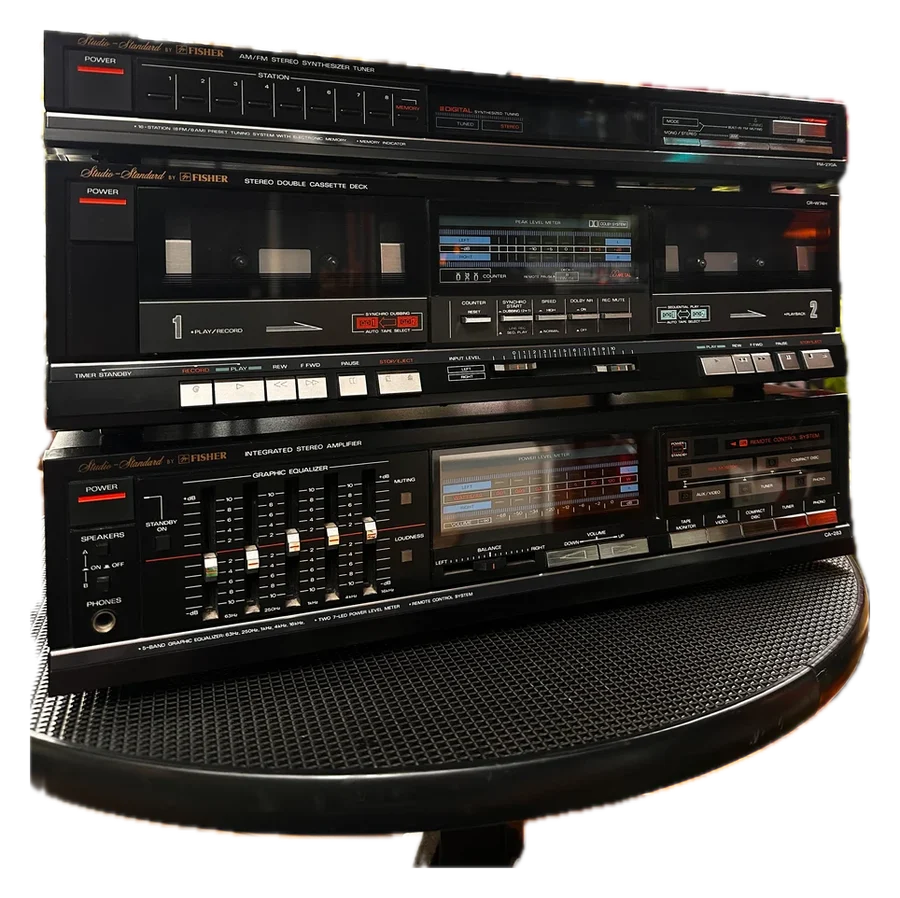
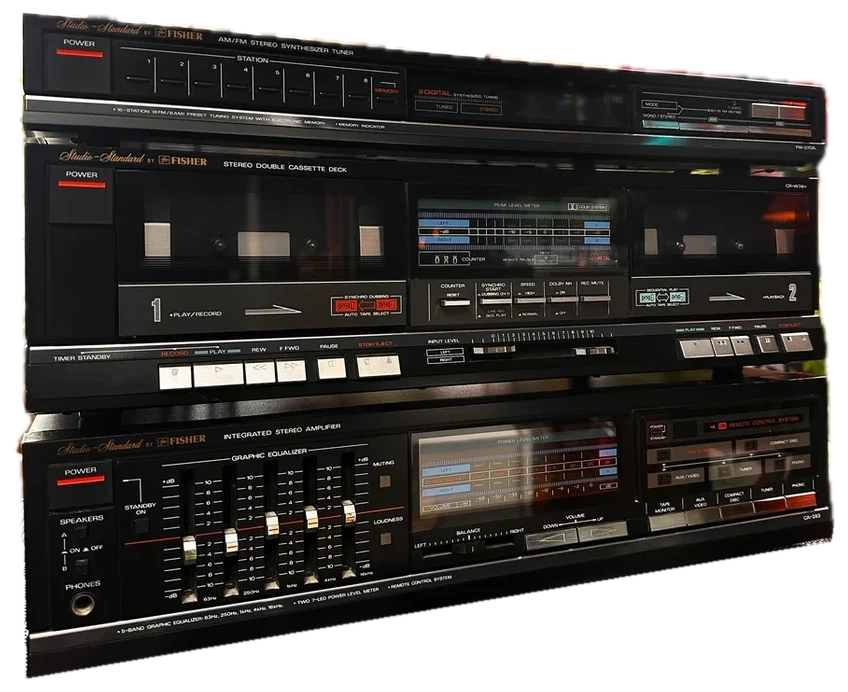
Fisher müzik seti ilk foto: masa kesildi, yalnız set dekupe

diff --git a/veri/aspect.js b/veri/aspect.js
@@ -1,2 +1,2 @@
 // ürün görsellerinin en/boy oranı (tünel yerleşimi için)
-const ASPECT={"3484": 1.45, "3490": 1.18, "3491": 1.0, "3485": 0.84, "3493": 0.59, "3487": 0.5, "3478": 1.01, "3479": 0.69, "3486": 0.81, "3492": 1.02, "3482": 0.55, "3469": 0.48, "3468": 0.75, "3483": 1.06, "3481": 0.62, "3495": 0.36, "3494": 0.72, "3480": 0.59, "3466": 1.08, "3472": 0.9, "3473": 0.83, "3467": 0.93, "3459": 0.69, "3471": 0.7, "3465": 1.57, "3464": 2.14, "3470": 0.47, "3474": 1.4, "3460": 0.8, "3461": 0.3, "3475": 0.7, "3488": 0.69, "3463": 0.62, "3477": 0.64, "3476": 0.74, "3462": 0.85, "3489": 0.83, "ek/3481_simitsaat": 0.98, "ek/3462_kure": 1.21, "ek/3462_sovalye": 0.94, "ek/3462_golf": 1.5, "ek/3470_kadeh": 0.9, "ek/3470_yunus": 0.34, "ek/3481_tarti": 0.71, "ek/3463_kaplumbaga": 1.06, "ek/3461_siyahfigur": 1.06, "ek/3480_cash": 0.37, "ek/3480_yildiz": 1.06, "ek/3482_papagan": 0.57, "ek/3482_tbmm": 0.73, "ek/3462_boga": 1.38, "ek/3462_ayi": 0.74, "ek/3462_kosteksaat": 0.8, "ek/3470_kurukafa": 0.5, "ek/3461_melodika": 0.21, "ek/3485_ucgen": 0.93, "ek/3461_morvazo": 0.45, "ek/3481_jant": 1.15, "ek/3463_louis": 0.91, "ek/3480_duvarsaat": 1.12, "ek/3463_geyikboynuz": 1.15, "ek/3461_heman": 0.99, "ek/3470_hindi": 0.8, "ig/ig_heykelmasa": 0.88, "ig/ig_porselentabak": 0.69, "ig/ig_yesilraf": 0.62, "ig/ig_kayak": 0.34, "ig/ig_martiniaraba": 1.81, "ig/ig_kupvazo": 0.8, "ig/ig_saveposter": 0.69, "ig/ig_hoparlor": 0.6, "ig/ig_rolls": 1.35, "ig/ig_polaroid_v2": 0.83, "ig/ig_paravan_v2": 0.68, "ig/ig_fender": 0.45, "ig/ig_alaindelon": 0.74, "ig/ig_kelebektabak": 1.33, "ig/ig_hitachi_v2": 0.94, "ig/ig_kaplan": 1.0, "ig/ig_astronot": 0.5, "ig/ig_makarateyp_v2": 0.83, "ig/ig_kurt": 0.62, "ig/ig_ledzeppelin": 0.78, "ig/ig_davul": 0.75, "ig/ig_maske": 0.87, "ig/ig_portre": 0.75, "h/70yil": 0.98, "h/actionman": 0.49, "h/almanbardak": 0.58, "h/aslankapi": 0.69, "h/bakirtablo": 1.04, "h/bongo": 1.01, "h/samsonite": 0.82, "h/daktilo": 0.59, "h/filtablo": 0.95, "h/fisher": 1.0, "h/havan": 0.84, "h/hendrix": 0.77, "h/ksara": 0.84, "h/kupoyunu": 0.92, "h/pilot": 0.36, "h/sihhiye": 0.86, "h/infraphil": 1.01, "h/pipo": 0.68, "h/islandman": 1.05, "h/havar": 0.8, "h/jimbeam": 0.98, "h/casio": 0.86, "h/yesilsandik": 1.06, "h/piknik": 1.0, "h/fragile": 0.98, "h/fincantakim": 1.21, "h/servistabak": 1.54, "h/japonbaski": 0.78, "h/nutablo": 0.87, "h/minyatur": 0.77, "h/minyatur2": 0.68, "h/ledzeppelin3": 0.74, "h/derintabak": 1.06, "h/fincantakim2": 1.82, "h/tef": 0.9};
+const ASPECT={"3484": 1.45, "3490": 1.18, "3491": 1.0, "3485": 0.84, "3493": 0.59, "3487": 0.5, "3478": 1.01, "3479": 0.69, "3486": 0.81, "3492": 1.02, "3482": 0.55, "3469": 0.48, "3468": 0.75, "3483": 1.06, "3481": 0.62, "3495": 0.36, "3494": 0.72, "3480": 0.59, "3466": 1.08, "3472": 0.9, "3473": 0.83, "3467": 0.93, "3459": 0.69, "3471": 0.7, "3465": 1.57, "3464": 2.14, "3470": 0.47, "3474": 1.4, "3460": 0.8, "3461": 0.3, "3475": 0.7, "3488": 0.69, "3463": 0.62, "3477": 0.64, "3476": 0.74, "3462": 0.85, "3489": 0.83, "ek/3481_simitsaat": 0.98, "ek/3462_kure": 1.21, "ek/3462_sovalye": 0.94, "ek/3462_golf": 1.5, "ek/3470_kadeh": 0.9, "ek/3470_yunus": 0.34, "ek/3481_tarti": 0.71, "ek/3463_kaplumbaga": 1.06, "ek/3461_siyahfigur": 1.06, "ek/3480_cash": 0.37, "ek/3480_yildiz": 1.06, "ek/3482_papagan": 0.57, "ek/3482_tbmm": 0.73, "ek/3462_boga": 1.38, "ek/3462_ayi": 0.74, "ek/3462_kosteksaat": 0.8, "ek/3470_kurukafa": 0.5, "ek/3461_melodika": 0.21, "ek/3485_ucgen": 0.93, "ek/3461_morvazo": 0.45, "ek/3481_jant": 1.15, "ek/3463_louis": 0.91, "ek/3480_duvarsaat": 1.12, "ek/3463_geyikboynuz": 1.15, "ek/3461_heman": 0.99, "ek/3470_hindi": 0.8, "ig/ig_heykelmasa": 0.88, "ig/ig_porselentabak": 0.69, "ig/ig_yesilraf": 0.62, "ig/ig_kayak": 0.34, "ig/ig_martiniaraba": 1.81, "ig/ig_kupvazo": 0.8, "ig/ig_saveposter": 0.69, "ig/ig_hoparlor": 0.6, "ig/ig_rolls": 1.35, "ig/ig_polaroid_v2": 0.83, "ig/ig_paravan_v2": 0.68, "ig/ig_fender": 0.45, "ig/ig_alaindelon": 0.74, "ig/ig_kelebektabak": 1.33, "ig/ig_hitachi_v2": 0.94, "ig/ig_kaplan": 1.0, "ig/ig_astronot": 0.5, "ig/ig_makarateyp_v2": 0.83, "ig/ig_kurt": 0.62, "ig/ig_ledzeppelin": 0.78, "ig/ig_davul": 0.75, "ig/ig_maske": 0.87, "ig/ig_portre": 0.75, "h/70yil": 0.98, "h/actionman": 0.49, "h/almanbardak": 0.58, "h/aslankapi": 0.69, "h/bakirtablo": 1.04, "h/bongo": 1.01, "h/samsonite": 0.82, "h/daktilo": 0.59, "h/filtablo": 0.95, "h/fisher": 1.23, "h/havan": 0.84, "h/hendrix": 0.77, "h/ksara": 0.84, "h/kupoyunu": 0.92, "h/pilot": 0.36, "h/sihhiye": 0.86, "h/infraphil": 1.01, "h/pipo": 0.68, "h/islandman": 1.05, "h/havar": 0.8, "h/jimbeam": 0.98, "h/casio": 0.86, "h/yesilsandik": 1.06, "h/piknik": 1.0, "h/fragile": 0.98, "h/fincantakim": 1.21, "h/servistabak": 1.54, "h/japonbaski": 0.78, "h/nutablo": 0.87, "h/minyatur": 0.77, "h/minyatur2": 0.68, "h/ledzeppelin3": 0.74, "h/derintabak": 1.06, "h/fincantakim2": 1.82, "h/tef": 0.9};
